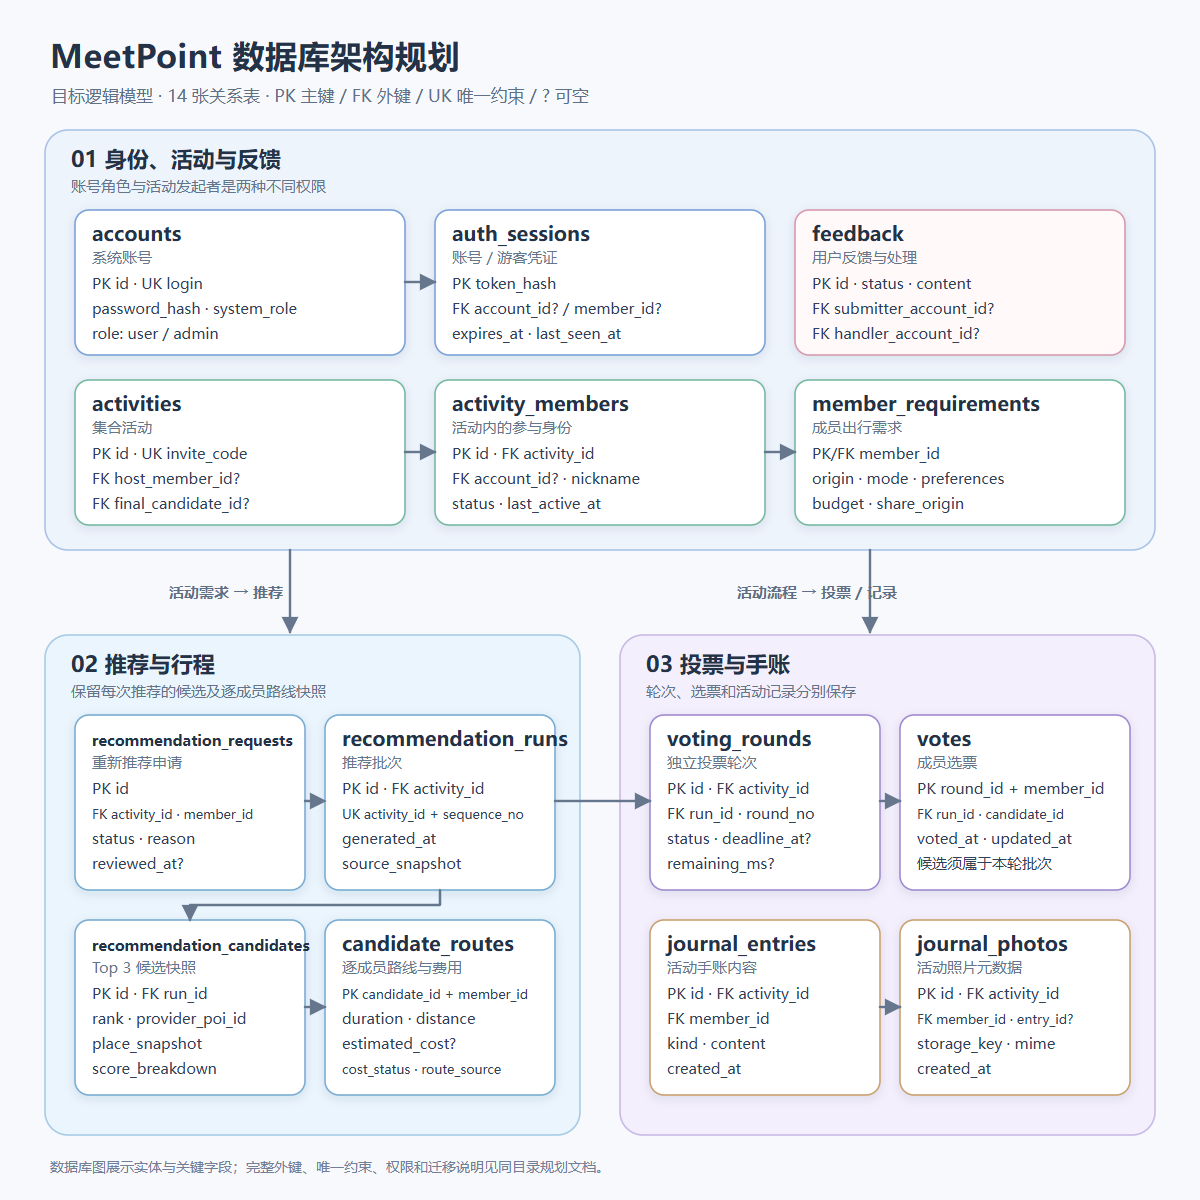
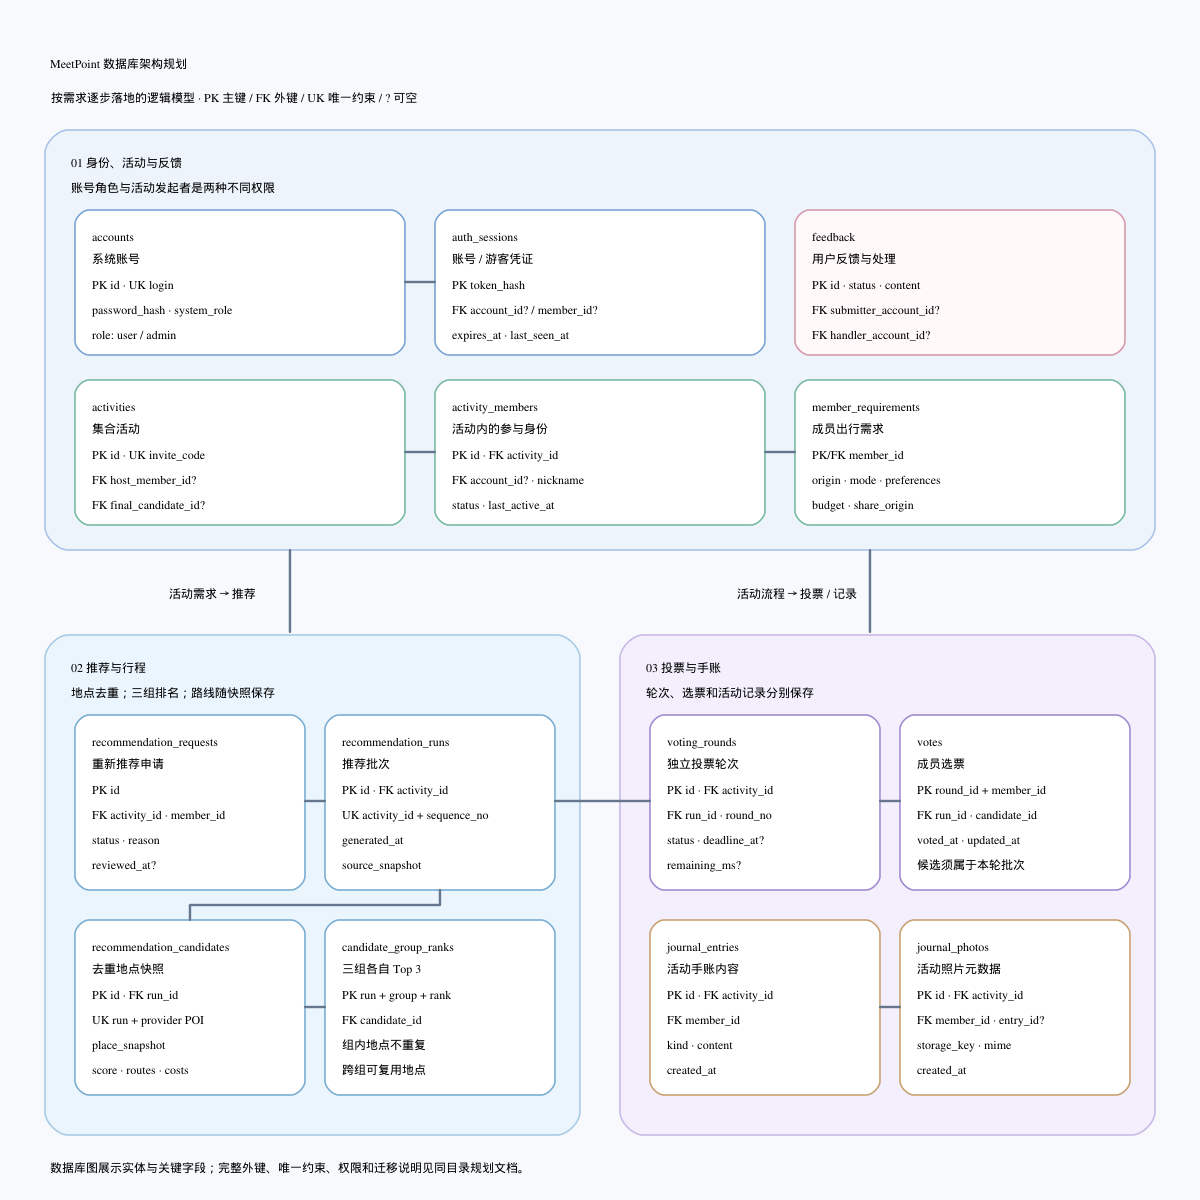
docs: 更新数据库架构规划与架构图

diff --git a/docs/MeetPoint_数据库规划.md b/docs/MeetPoint_数据库规划.md
@@ -1,0 +1,133 @@
+# MeetPoint 数据库规划
+
+> 版本：V1.1｜日期：2026-10-28｜性质：按需求演进的逻辑模型，不是必须一次建成的表清单。
+> 依据：《MeetPoint 软件需求规格说明书》V1.1、项目里程碑规划及现有 Demo 的活动、投票和手账规则。
+
+## 1. 架构图
+
+![MeetPoint 数据库架构规划图](MeetPoint_数据库架构图.png)
+
+上图为 **1200 × 1200 的正方形矢量图**，适合直接插入 PPT。图中每张卡片是一种将来可能需要独立查询或约束的关系实体，箭头只画主要业务关联；它不表示 Sprint 1 必须迁移成这些表。地图服务是外部数据源，不是本地数据库表。
+
+### 当前 Sprint 1 的物理存储
+
+当前代码建立 6 张 SQLite 表，与上面的逻辑模型处于不同层次：
+
+```mermaid
+erDiagram
+    activities ||--o{ sessions : "activity_id 外键"
+    activities ||--o{ photos : "activity_id 应用层关联"
+    accounts ||--o{ account_sessions : "account_id 应用层关联"
+    accounts ||--o{ account_memberships : "account_id 应用层关联"
+    activities ||--o{ account_memberships : "activity_id 应用层关联"
+    activities {
+        text id PK
+        text code UK
+        text payload "成员、需求、推荐、投票、手账等 JSON"
+    }
+    sessions {
+        text token_hash PK
+        text activity_id FK
+        text member_id
+    }
+    photos {
+        text id PK
+        text activity_id
+        text member_id
+        text mime
+        blob data
+    }
+    accounts {
+        text id PK
+        text username UK
+        text salt
+        text password_hash
+    }
+    account_sessions {
+        text token_hash PK
+        text account_id
+        integer expires_at
+    }
+    account_memberships {
+        text account_id PK
+        text activity_id PK
+        text member_id
+    }
+```
+
+图中仅 `sessions.activity_id` 已声明数据库外键。其他连线目前由应用层维护；`account_memberships` 还约束 `(activity_id, member_id)` 唯一。浏览器本地的反馈不在这 6 张表中。Sprint 1 验收应以当前功能与实际存储为准，不以目标图的表数为准。
+
+## 2. 设计选择
+
+- 继续使用关系型数据库 SQLite。当前活动聚合 JSON 足以支撑单实例 Sprint 1；当用户故事需要独立查询、跨记录约束或多人并发写入时，再逐步拆出成员、需求、推荐批次、三组排序、投票轮次与选票。偏好细项、地点与评分依据、逐成员路线和费用可以保留为推荐时的 JSON 快照。
+- 注册账号与活动身份分离。`accounts.system_role` 表示全站的 `user` 或 `admin`；`activity_members` 表示一个人在某场活动中的身份。`activities.host_member_id` 决定该活动的发起者，不能授予系统管理员权限。
+- 活动可以同时有游客与注册成员。游客不需要 `accounts` 行；其活动身份由不可预测的会话令牌访问。数据库只保存令牌摘要。注册成员通过账号会话访问与账号关联的活动身份。
+- 每次推荐保存不可变的候选快照。后续需求修改不回写已开启投票的候选；重新推荐生成新批次。零票重投可引用原推荐批次，但新建投票轮次，旧选票不继承。
+- 当前照片以 BLOB 保存在 SQLite。若照片规模或部署需求使文件存储更合适，再把文件放入持久化磁盘或对象存储，并在数据库保存 `storage_key`、类型及归属；这不是 Sprint 1 的必要迁移。
+
+## 3. 表与主要字段
+
+图中 `PK` 为主键，`FK` 为外键，`UK` 为唯一约束，`?` 为允许空值。下表是后续拆表时的设计候选，不是当前建表脚本。新增业务表宜有创建时间；可变记录另有更新时间。时间统一保存为 UTC，页面按用户时区显示。
+
+| 表 | 主键与主要字段 | 用途及关键约束 |
+| --- | --- | --- |
+| `accounts` | `id`；`login`（UK）、`password_hash`、`system_role`、`created_at` | 注册、登录及管理员授权。角色限定 `user/admin`；密码只存安全哈希。 |
+| `auth_sessions` | `token_hash`；`account_id?`、`member_id?`、`expires_at`、`last_seen_at` | 账号会话或游客活动凭证；两种主体字段恰有一个非空。令牌明文只返回客户端。 |
+| `activities` | `id`；`invite_code`（UK）、`title`、`type`、`scheduled_at`、`status`、`host_member_id?`、`final_candidate_id?` | 活动主记录；最终候选在完成后不可修改。建活动与指定发起者在同一事务完成。 |
+| `activity_members` | `id`；`activity_id`、`account_id?`、`nickname`、`status`、`joined_at`、`last_active_at` | 记录游客或账号用户在某活动中的身份。注册账号在同一活动最多一条有效成员记录；有效成员最多 10 人。 |
+| `member_requirements` | `member_id`（PK/FK）；`origin_label`、`origin_lat`、`origin_lng`、`travel_mode`、`preferences_json`、`budget`、`share_origin`、`updated_at` | 一名成员的一份当前需求；精确位置供服务端推荐，响应时根据 `share_origin` 控制对其他成员的展示。 |
+| `feedback` | `id`；`submitter_account_id?`、`guest_receipt_hash?`、`category`、`content`、`status`、`handler_account_id?`、`handling_note?`、`created_at`、`handled_at?` | 账号用户或游客提交反馈。提交者账号与游客查询凭证二选一；处理者必须是管理员。建议状态 `pending/processing/resolved`。 |
+| `recommendation_requests` | `id`；`activity_id`、`member_id`、`reason`、`status`、`created_at`、`reviewed_at?` | 成员申请重新推荐，发起者审批；初次推荐无需申请。 |
+| `recommendation_runs` | `id`；`activity_id`、`sequence_no`、`generated_at`、`source_snapshot` | 一次推荐的固定批次；`(activity_id, sequence_no)` 唯一。记录数据来源或算法版本，以便解释评分。 |
+| `recommendation_candidates` | `id`；`run_id`、`provider`、`provider_poi_id`、`place_snapshot`、`total_score`、`score_breakdown`、`routes_snapshot` | 保存该批去重后的实际地点及评分、逐成员路线和费用快照。`(run_id, provider, provider_poi_id)` 可作唯一键；无稳定地图 ID 时需定义等价去重键。费用未知时保存明确状态，不以 `0` 冒充已知费用。 |
+| `candidate_group_ranks` | `(run_id, group_key, rank)`；`candidate_id` | 保存三类推荐各自的 Top 3 排序；`rank` 限定 1～3，`(run_id, group_key, candidate_id)` 唯一。`candidate_id` 必须属于同一 `run_id`；同一地点可以出现在不同组。 |
+| `voting_rounds` | `id`；`activity_id`、`run_id`、`round_no`、`status`、`started_at`、`deadline_at?`、`remaining_ms?`、`closed_at?` | 一轮投票绑定一个固定推荐批次；`(activity_id, round_no)` 唯一。暂停时保存剩余时长，恢复后重算截止时间。 |
+| `votes` | `(round_id, member_id)`；`run_id`、`candidate_id`、`voted_at`、`updated_at` | 每成员每轮至多一票；截止前改票为更新原记录。组合外键确保所选候选与轮次引用同一推荐批次。 |
+| `journal_entries` | `id`；`activity_id`、`member_id`、`kind`、`content`、`created_at` | 保存活动手账中的感受和评论；作者须属于该活动。 |
+| `journal_photos` | `id`；`activity_id`、`member_id`、`entry_id?`、`storage_key`、`mime`、`created_at` | 保存照片元数据及文件位置；删除照片时同时清理文件对象。 |
+
+## 4. 关系与业务约束
+
+1. **活动与成员：** `activities 1:N activity_members`。活动建立时可以先插入活动与发起者，再回填 `host_member_id`，整个过程在一个事务中完成。发起者必须是本活动的有效成员；移交发起权只更新该引用，不改变本轮候选和选票。人数下限 2 人用于开始推荐与投票，上限 10 人用于加入校验。
+2. **恢复期限：** `activity_members.last_active_at` 记录最近一次有效操作。未完成活动的游客按 24 小时、账号成员按 7 天判断恢复资格；`auth_sessions.expires_at` 则用于会话本身的安全失效，不能替代前述业务期限。
+3. **隐私：** 精确出发坐标只供授权的服务端推荐与本人查看。查询其他成员需求时，服务端依据 `share_origin` 输出脱敏视图，不能依赖前端隐藏字段。
+4. **推荐：** `recommendation_runs 1:N recommendation_candidates`，同一批的实际地点去重；`candidate_group_ranks` 为每个推荐组指定最多 3 个地点，三个组的并集可以超过 3 个，同一地点也可出现在多个组。候选快照保存逐成员交通估计；地图失败、数据缺失及费用未知都需明确状态，不伪造结果。只有在需要单独检索或更新路线时才考虑拆出路线表。
+5. **投票：** `voting_rounds` 绑定 `recommendation_runs`；`votes` 的 `(round_id, member_id)` 为主键。为防止跨批次投票，`votes.run_id` 同时参与指向轮次和候选的组合外键，或使用等价数据库约束。投票中不得增减成员；计票、提前结束、暂停与恢复在事务中完成。
+6. **最终结果：** `activities.final_candidate_id` 只能指向当前有效轮次所属批次的候选；活动完成后不再允许重新推荐、改票或修改结果。选票指向去重地点，不指向某组排名；平票时须定义跨组统一决胜次序（可保存候选的全局排序），零有效票不写入最终结果。
+7. **反馈权限：** 游客提交反馈时生成高熵查询凭证，仅存摘要；注册用户通过账号查询本人反馈。只有 `accounts.system_role = admin` 的账号可以更新反馈状态和处理说明，`handler_account_id` 指向该账号。活动发起者身份不提供此权限。
+
+其中“同一活动”“当前有效轮次”“管理员角色”等跨多表条件，应通过事务中的服务端校验实现；能用唯一键、检查约束或组合外键表达的条件同时落实到数据库。
+
+## 5. 建议索引与事务边界
+
+| 访问路径 | 索引 / 约束 |
+| --- | --- |
+| 邀请码加入 | `activities(invite_code)` 唯一 |
+| 查看某账号未完成活动 | `activity_members(account_id, status)`，并联查活动状态 |
+| 活动成员与恢复 | `activity_members(activity_id, status)`；按成员主键读取 `last_active_at` |
+| 推荐历史 | `recommendation_runs(activity_id, sequence_no)` 唯一 |
+| 三组推荐顺序 | `candidate_group_ranks(run_id, group_key, rank)` 主键；`(run_id, group_key, candidate_id)` 唯一 |
+| 投票轮次 | `voting_rounds(activity_id, round_no)` 唯一 |
+| 本轮选票 | `votes(round_id, member_id)` 主键 |
+| 我的反馈 / 管理员待处理列表 | `feedback(submitter_account_id, created_at)`；`feedback(status, created_at)` |
+
+创建及加入活动、生成推荐及候选、提交或改票、截止计票、移交发起权、照片元数据写入，都应以数据库事务完成。加入时应在事务内重新核对有效人数，防止并发超过 10 人。
+
+## 6. 落地与服务器部署
+
+**Sprint 1 暂不做结构迁移。** 当前 Demo 用 `activities.payload` JSON 保存活动状态，`sessions` 保存游客令牌摘要，`accounts`、`account_sessions`、`account_memberships` 保存账号及其活动身份，`photos` 在 SQLite 中保存二进制图片；反馈只在浏览器本地。使用 SQLite 外键约束时，须在每次打开连接时启用检查；现有表中只有 `sessions.activity_id` 声明了外键，其他跨表关系仍由应用层保证。
+
+后续按用户故事逐步拆分时，先明确新的独立查询或约束，再设计迁移。迁移必须保留旧数据并避免同时维护 JSON 与新表两套事实来源；完成前后核对活动数、成员数、三组候选顺序、每轮选票数和最终结果。逻辑模型中的 `auth_sessions` 只是账号与游客凭证的统一概念，实际实现可以继续使用 `sessions` 与 `account_sessions` 两张表。若将账号关联直接放进 `activity_members`，应评估是否仍需 `account_memberships`，避免重复关系。
+
+部署到**单台服务器**时可继续使用 SQLite 文件和其中的照片 BLOB，放在持久磁盘并配置备份、HTTPS 和服务自启动。若以后运行多台后端或需要更强的并发写入，再评估 PostgreSQL；这会涉及字段类型、SQL 方言、连接方式和数据迁移。部署地点变化本身不要求改变业务实体关系。
+
+## 7. SRS 对应
+
+| 需求范围 | 数据设计支撑 |
+| --- | --- |
+| FR-01～07、FR-19～22、FR-29、FR-33～37 | 活动、成员、账号、会话、需求、位置公开、发起者及恢复期限 |
+| FR-08～11、FR-18、FR-23～25、FR-31、FR-38 | 推荐批次、候选快照、地图来源、逐成员路线与费用状态 |
+| FR-12～16、FR-26～27、FR-30、FR-39～40 | 投票轮次、选票、重荐申请、最终候选与倒计时 |
+| FR-17、FR-28、FR-32；NFR-14 | 用户反馈、处理状态及管理员权限隔离 |
+
+图示强调需求覆盖与可读性；具体拆表范围以实施时的用户故事和约束为准。
